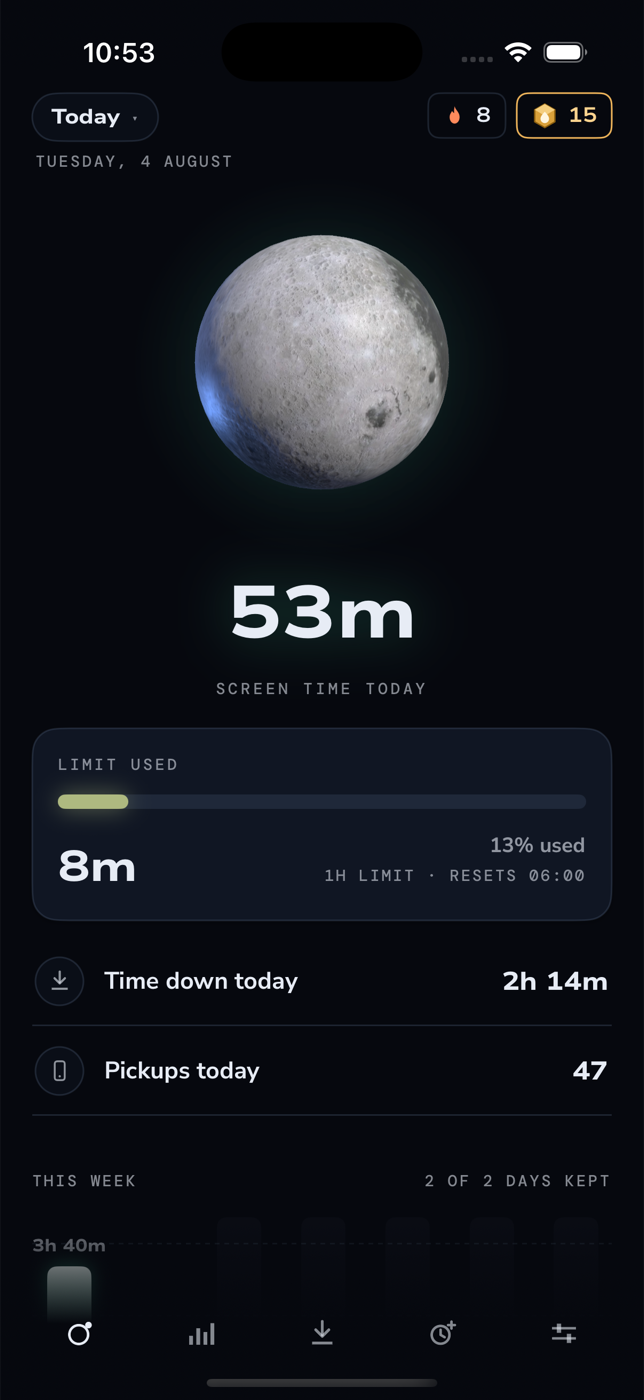
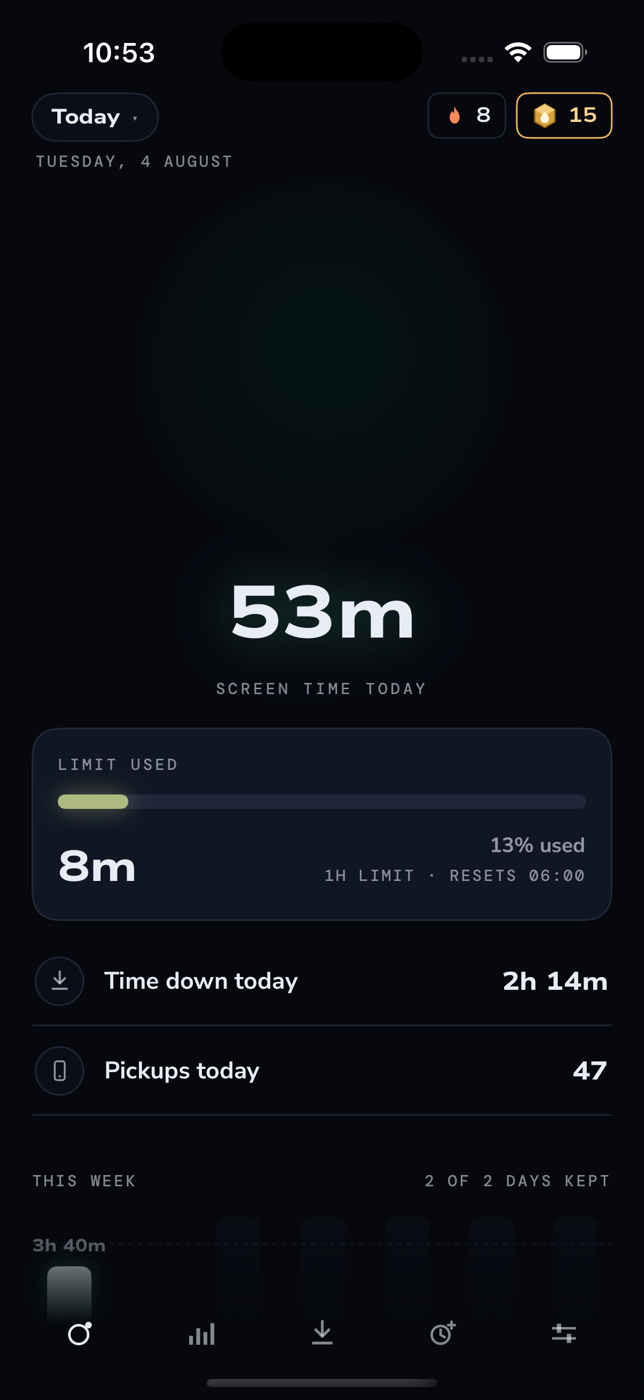
Rewrite the landing page as an advertising page, with a live spinning moon
Copy is now an argument rather than a feature list: willpower already
failed, so the thing that changes is who is in the room. Adds the Gallup
2023 figure (US teens, 4.8 hours a day on social media), the hard block
and its one human door, the 06:00 rollover and why midnight is wrong, and
the price section.

The moon on the phone actually turns. The hero screenshot has the rendered
body erased and its glow rebuilt, and a CSS sphere sits in its place: the
model's own equirectangular base colour texture, pulled out of
moons__the-moon__9916fcec.glb, laid beside its mirror so the strip tiles
with no seam, scrolled behind a circular mask. The skin is 800% wide with
a 50% tile, so one loop is exactly one tile and the wrap is invisible.
Held still under prefers-reduced-motion.

Changed region(s): [[0.2795, 0.1536, 0.7143, 0.3686]]

diff --git a/index.html b/index.html
@@ -4,11 +4,11 @@
   <meta charset="utf-8">
   <meta name="viewport" content="width=device-width, initial-scale=1">
   <title>Eclipse: social screen time</title>
-  <meta name="description" content="Set a daily limit on the apps you choose, keep a streak, and put the phone down with friends. Your screen time is measured by iOS and stays on your phone.">
+  <meta name="description" content="A hard daily limit on the apps that take your day. When it runs out, the only way past it is asking a friend. Free, for iPhone.">
   <meta name="author" content="Friedrich von Werner">
   <link rel="canonical" href="https://fvonwerner.github.io/eclipse-site/">
   <meta property="og:title" content="Eclipse: social screen time">
-  <meta property="og:description" content="Set a daily limit on the apps you choose, keep a streak, and put the phone down with friends. Your screen time is measured by iOS and stays on your phone.">
+  <meta property="og:description" content="A hard daily limit on the apps that take your day. When it runs out, the only way past it is asking a friend. Free, for iPhone.">
   <meta property="og:type" content="website">
   <meta property="og:url" content="https://fvonwerner.github.io/eclipse-site/">
   <meta property="og:image" content="https://fvonwerner.github.io/eclipse-site/eclipse-home.png">
@@ -41,9 +41,9 @@
 
     .wrap { max-width: 66rem; margin: 0 auto; padding: 0 1.5rem; position: relative; z-index: 1; }
     .corona {
-      position: absolute; top: -18rem; left: 50%; transform: translateX(-50%);
-      width: 60rem; height: 60rem; pointer-events: none; z-index: 0;
-      background: radial-gradient(circle, rgba(99, 205, 230, 0.16) 0%, rgba(127, 176, 232, 0.07) 34%, rgba(6, 8, 14, 0) 62%);
+      position: absolute; top: -20rem; left: 50%; transform: translateX(-50%);
+      width: 64rem; height: 64rem; pointer-events: none; z-index: 0;
+      background: radial-gradient(circle, rgba(99, 205, 230, 0.17) 0%, rgba(127, 176, 232, 0.07) 34%, rgba(6, 8, 14, 0) 62%);
     }
 
     .mono { font-family: var(--mono); font-weight: 500; text-transform: uppercase;
@@ -54,11 +54,12 @@
     .brand span { font-size: 1.375rem; font-weight: 700; font-variation-settings: "wdth" 125; letter-spacing: -0.01em; }
     .appicon { border-radius: 22.5%; display: block; }
 
-    .hero { display: grid; gap: 3rem; align-items: center; padding: 3rem 0 1rem; }
-    h1 { font-size: 2.75rem; line-height: 1.06; letter-spacing: -0.025em; font-weight: 800;
+    /* ---------- hero ---------- */
+    .hero { display: grid; gap: 3rem; align-items: center; padding: 2.5rem 0 1rem; }
+    h1 { font-size: 2.5rem; line-height: 1.05; letter-spacing: -0.03em; font-weight: 800;
          font-variation-settings: "wdth" 125; }
-    h1 .glow { color: var(--sagelight); text-shadow: 0 0 32px rgba(73, 215, 162, 0.45); }
-    .hero p.sub { margin-top: 1.5rem; max-width: 44ch; font-size: 1.125rem; line-height: 1.6; color: var(--ink2); }
+    h1 .glow { color: var(--sagelight); text-shadow: 0 0 34px rgba(73, 215, 162, 0.45); }
+    .hero p.sub { margin-top: 1.5rem; max-width: 46ch; font-size: 1.125rem; line-height: 1.6; color: var(--ink2); }
     .cta { margin-top: 2.25rem; display: flex; flex-wrap: wrap; align-items: center; gap: 1rem 1.25rem; }
     .button {
       display: inline-block; background: linear-gradient(180deg, var(--sagelight), var(--sage));
@@ -73,19 +74,52 @@
     .phone { width: 258px; margin: 0 auto; border-radius: 2.75rem; background: #000;
              padding: 8px; border: 1px solid var(--line);
              box-shadow: 0 40px 90px -30px rgba(0, 0, 0, 0.9), 0 0 80px -20px rgba(99, 205, 230, 0.22); }
-    .phone img { width: 100%; height: auto; border-radius: 2.3rem; display: block; }
+    .screen { position: relative; border-radius: 2.3rem; overflow: hidden; }
+    .screen img { width: 100%; height: auto; display: block; }
 
+    /* The moon on the phone is live: an equirectangular lunar map scrolled
+       behind a circular mask, so the sphere actually turns. The strip is the
+       map plus its mirror, which tiles with no seam. */
+    .moonlive {
+      position: absolute; left: 50.54%; top: 24.9%; width: 35%; aspect-ratio: 1;
+      transform: translate(-50%, -50%); border-radius: 50%; overflow: hidden;
+      box-shadow: 0 0 26px 6px rgba(73, 215, 162, 0.16),
+                  0 0 64px 18px rgba(73, 215, 162, 0.07);
+    }
+    .moonskin {
+      position: absolute; top: 0; bottom: 0; left: 0; width: 800%;
+      background: url("moon-map.jpg") repeat-x; background-size: 50% 100%;
+      animation: moonroll 76s linear infinite;
+    }
+    @keyframes moonroll { to { transform: translateX(-50%); } }
+    .moonlive::after {
+      content: ""; position: absolute; inset: 0; border-radius: 50%;
+      background:
+        radial-gradient(circle at 30% 26%, rgba(255, 255, 255, 0.16), rgba(255, 255, 255, 0) 46%),
+        radial-gradient(circle at 74% 76%, rgba(0, 0, 0, 0.72), rgba(0, 0, 0, 0) 60%);
+      box-shadow: inset -12px -8px 26px rgba(0, 0, 0, 0.7),
+                  inset 12px 4px 22px rgba(99, 205, 230, 0.20);
+    }
+
+    /* ---------- sections ---------- */
     section { border-top: 1px solid var(--line); padding: 4rem 0; }
-    h2 { font-size: 1.875rem; letter-spacing: -0.02em; font-weight: 800; font-variation-settings: "wdth" 118; }
+    h2 { font-size: 1.875rem; letter-spacing: -0.025em; font-weight: 800; font-variation-settings: "wdth" 118;
+         line-height: 1.12; }
     .lede { margin-top: 1rem; max-width: 58ch; color: var(--ink2); line-height: 1.65; }
-    .kicker { margin-top: 2rem; max-width: 58ch; line-height: 1.65; color: var(--ink); }
+    .kicker { margin-top: 1.5rem; max-width: 58ch; line-height: 1.65; color: var(--ink); }
+
+    .stat { text-align: center; padding: 4.5rem 0; }
+    .statbig { font-size: 4rem; line-height: 1; font-weight: 800; font-variation-settings: "wdth" 125;
+               letter-spacing: -0.04em; color: var(--sunset); }
+    .stat p { margin: 1.25rem auto 0; max-width: 46ch; color: var(--ink2); line-height: 1.65; }
+    .stat .src { margin-top: 1.25rem; font-size: 0.8125rem; color: var(--ink3); }
 
     ul.doors { list-style: none; margin-top: 2.5rem; }
     ul.doors li { display: grid; gap: 0.375rem; padding: 1.375rem 0; border-top: 1px solid var(--line); }
     ul.doors li:first-child { border-top: none; padding-top: 0; }
     .doorname { display: flex; align-items: center; gap: 0.75rem; font-weight: 700; font-size: 1.0625rem; }
     .dot { width: 9px; height: 9px; border-radius: 50%; flex-shrink: 0; }
-    .doordesc { color: var(--ink2); line-height: 1.65; padding-left: 21px; max-width: 52ch; }
+    .doordesc { color: var(--ink2); line-height: 1.65; padding-left: 21px; max-width: 54ch; }
 
     .split { display: grid; gap: 3rem; align-items: center; margin-top: 2.5rem; }
     .cards { display: grid; gap: 1rem; }
@@ -94,11 +128,23 @@
     .card p { margin-top: 0.5rem; color: var(--ink2); line-height: 1.6; font-size: 0.9375rem; }
     .pip { width: 9px; height: 9px; border-radius: 50%; flex-shrink: 0; }
 
+    .price { display: grid; gap: 0.75rem; margin: 2rem 0 0; max-width: 34rem; }
+    .prow { display: flex; align-items: baseline; justify-content: space-between; gap: 1rem;
+            padding: 0.875rem 0; border-bottom: 1px solid var(--line); }
+    .prow span:first-child { color: var(--ink2); }
+    .prow span:last-child { font-family: var(--mono); font-size: 0.9375rem; color: var(--ink2); white-space: nowrap; }
+    .prow.us span { color: var(--sagelight); font-weight: 700; }
+    .prow.us span:last-child { font-weight: 500; }
+
     .privacy { border-radius: 24px; background: var(--bg2); border: 1px solid var(--line);
                padding: 2rem; margin: 4rem 0 0; }
     .privacy h2 { color: var(--sagelight); }
     .privacy p { margin-top: 1.125rem; max-width: 62ch; line-height: 1.65; color: var(--ink2); }
     .privacy strong { color: var(--ink); font-weight: 600; }
+
+    .closer { text-align: center; padding: 5rem 0 1rem; border-top: 1px solid var(--line); }
+    .closer h2 { max-width: 20ch; margin: 0 auto; }
+    .closer .cta { justify-content: center; margin-top: 2rem; flex-direction: column; gap: 0.875rem; }
 
     footer { border-top: 1px solid var(--line); padding: 2.5rem 0 3rem; margin-top: 4rem;
              display: flex; flex-wrap: wrap; align-items: center; justify-content: space-between;
@@ -108,11 +154,12 @@
     footer .right p + p { margin-top: 0.3125rem; }
 
     @media (min-width: 820px) {
-      .hero { grid-template-columns: 1.05fr 1fr; padding: 4.5rem 0 2rem; }
-      h1 { font-size: 3.625rem; }
+      .hero { grid-template-columns: 1.08fr 1fr; padding: 4rem 0 2rem; }
+      h1 { font-size: 3.5rem; }
       .phone { width: 292px; }
       section { padding: 5.5rem 0; }
       h2 { font-size: 2.25rem; }
+      .statbig { font-size: 6rem; }
       ul.doors li { grid-template-columns: 300px 1fr; gap: 1.5rem; align-items: baseline; }
       .doordesc { padding-left: 0; }
       .split { grid-template-columns: 1fr 300px; gap: 4rem; }
@@ -121,6 +168,7 @@
     @media (prefers-reduced-motion: reduce) {
       html { scroll-behavior: auto; }
       .button { transition: none; }
+      .moonskin { animation: none; }
     }
   </style>
 </head>
@@ -133,83 +181,122 @@
         <img class="appicon" src="eclipse-icon.png" alt="" width="30" height="30">
         <span>Eclipse</span>
       </div>
-      <span class="mono">For iPhone</span>
+      <span class="mono">Free · For iPhone</span>
     </header>
 
     <section class="hero" style="border-top: none">
       <div>
-        <h1>Screen time you keep, <span class="glow">together</span>.</h1>
-        <p class="sub">Eclipse puts a daily limit on the apps you choose. Stay inside it and grow a streak. Put the phone down on purpose and a few friends are doing it with you.</p>
+        <h1>The way past your limit is not a button. It is a <span class="glow">person</span>.</h1>
+        <p class="sub">Eclipse puts a hard daily limit on the apps that eat your day. When it runs out, it runs out. There is no "15 more minutes", no talking yourself into it at 1am. If you genuinely need more time, you ask a friend, and they decide.</p>
         <div class="cta">
-          <a class="button" href="https://testflight.apple.com/join/ADW7nST8">Join the TestFlight beta</a>
-          <p class="ctanote">Free, iPhone, iOS 26 or newer.<br>The beta is capped at 100 people.</p>
+          <a class="button" href="https://testflight.apple.com/join/ADW7nST8">Get Eclipse free</a>
+          <p class="ctanote">Free, iPhone, iOS 26 or newer.<br>No subscription and no trial.</p>
         </div>
       </div>
       <div class="phone">
-        <img src="eclipse-home.png" width="644" height="1400" loading="eager"
-             alt="Eclipse's home screen in dark mode: the Moon floating above an 8 day streak, about 53 minutes of screen time today, 8 minutes of a one hour limit used, time down today and pickups today, and this week's bars">
+        <div class="screen">
+          <img src="eclipse-home.png" width="644" height="1400" loading="eager"
+               alt="Eclipse's home screen in dark mode: the Moon floating above an 8 day streak, about 53 minutes of screen time today, 8 minutes of a one hour limit used, time down today and pickups today, and this week's bars">
+          <div class="moonlive" aria-hidden="true"><div class="moonskin"></div></div>
+        </div>
       </div>
     </section>
 
+    <section class="stat">
+      <div class="statbig">4.8 hours</div>
+      <p>That is how long the average American teenager spends on social media every day. Not on their phone. On social media alone. Over a year it adds up to seventy three days, awake, gone.</p>
+      <p class="src">Gallup, Familial &amp; Adolescent Health Survey, 2023</p>
+    </section>
+
     <section>
-      <p class="mono">The wall</p>
-      <h2>When time is up, it is up.</h2>
-      <p class="lede">Once today's budget is spent, your tracked apps close behind a quiet screen. There are two ways forward from it, and neither one is a &ldquo;keep scrolling anyway&rdquo; button.</p>
+      <p class="mono">Why a friend</p>
+      <h2>Willpower is the thing that already failed.</h2>
+      <p class="lede">Every screen time app asks the same person who opened Instagram to also be the person who stops. That is you against yourself at your worst moment, and you have been losing that argument for years. It is not a character flaw. These apps are built by thousands of people whose whole job is to keep you scrolling.</p>
+      <p class="kicker">So Eclipse changes who is in the room. Your limit, your streak and your kept days are visible to a handful of friends you chose. Not a feed, not followers, not strangers: three or four people who will notice. Breaking a promise is easy when nobody is watching and surprisingly hard when someone is.</p>
+      <p class="kicker">This is the oldest trick in behaviour change, and it is the one that works. It is why people run with a friend instead of alone, and why the gym buddy who is waiting outside beats every alarm you have ever set.</p>
+    </section>
+
+    <section>
+      <p class="mono">When time is up</p>
+      <h2>A wall, and one human door.</h2>
+      <p class="lede">Most apps hand you an escape hatch and call it flexibility: a snooze, an "ignore limit", a setting you can raise in four taps at exactly the moment you should not. Eclipse closes those. When today's budget is spent, your tracked apps close, and there is no button anywhere that says keep going.</p>
       <ul class="doors">
         <li>
           <div class="doorname"><span class="dot" style="background: var(--sage)"></span>Close it</div>
-          <p class="doordesc">Put the phone down and the day counts as kept. Your streak grows by one. Reaching your limit is a success, so the whole app stays green when you land on it.</p>
+          <p class="doordesc">Put the phone down and the day counts as kept. Your streak grows by one. Reaching your limit is a success, not a failure, so the whole app stays green when you land on it.</p>
         </li>
         <li>
-          <div class="doorname"><span class="dot" style="background: var(--honey)"></span>Take two minutes</div>
-          <p class="doordesc">For the message that genuinely cannot wait: two minutes, granted the moment you tap, in the app you tapped from. Three a day, then a cooldown. Your streak survives all three.</p>
+          <div class="doorname"><span class="dot" style="background: var(--honey)"></span>Two minutes, right now</div>
+          <p class="doordesc">For the message that genuinely cannot wait. Two minutes, granted the instant you tap, in the app you tapped from. Three a day and then a cooldown. Your streak survives all three.</p>
+        </li>
+        <li>
+          <div class="doorname"><span class="dot" style="background: var(--frost)"></span>Ask a friend</div>
+          <p class="doordesc">The real emergency door. Ask your circle for fifteen minutes, an hour, or the rest of the day, and say why. The first yes opens it. You do not have to raise your limit, and you do not have to delete Eclipse to get your evening back. A day a friend helped is its own calm blue on your calendar: never a broken streak, and never a day you can pretend you earned.</p>
         </li>
       </ul>
-      <p class="kicker">And if you need a real exception, one friend can open it for you. You name a single anchor, and only their gift of time unlocks you. Days an anchor helped are their own calm blue on your calendar: never a kept day you did not earn, never a broken streak either.</p>
+      <p class="kicker">Raising your limit is always possible, because this is your phone and we are not going to pretend otherwise. It just costs your streak, and Eclipse says so before you confirm. Tightening is free. Loosening is not.</p>
+    </section>
+
+    <section>
+      <p class="mono">Six in the morning</p>
+      <h2>Your day resets at 6am, not midnight.</h2>
+      <p class="lede">A budget that refills at midnight refills at the exact moment it can do the most damage: lights off, in bed, nothing left to do tomorrow that a fresh hour of scrolling cannot ruin. Every app does this, and every app is wrong about it.</p>
+      <p class="kicker">Eclipse rolls the day over at six in the morning. If you hit your limit at 11pm, midnight is not a reward, and the new day arrives when you are awake and it can actually do you some good. Your sleep is most of the reason to do any of this in the first place.</p>
     </section>
 
     <section>
       <p class="mono">Phone down</p>
-      <h2>The good version of a competition.</h2>
+      <h2>The good kind of competition.</h2>
       <div class="split">
         <div class="cards">
           <div class="card">
-            <h3><span class="pip" style="background: var(--sage)"></span>Lock the whole phone, on purpose</h3>
-            <p>Start a session and everything closes, not just the apps you track. Invite whoever is already down and you finish together.</p>
+            <h3><span class="pip" style="background: var(--sage)"></span>Put the phone down on purpose</h3>
+            <p>Start a session and the whole phone closes, not just the apps you track. Invite whoever is already down and you finish together.</p>
           </div>
           <div class="card">
-            <h3><span class="pip" style="background: var(--dusk)"></span>A weekly board that counts the right thing</h3>
-            <p>It ranks the minutes you chose to be unreachable, never the hours you spent scrolling. Nobody wins by having a worse week.</p>
+            <h3><span class="pip" style="background: var(--dusk)"></span>A board that counts the right thing</h3>
+            <p>It ranks the minutes you chose to be unreachable, never the hours you lost. Nobody wins by having a worse week.</p>
           </div>
           <div class="card">
-            <h3><span class="pip" style="background: var(--honey)"></span>Finish and get paid in fuel</h3>
-            <p>A finished session pays fuel, and friends still down at the end pay you a bonus. Fuel buys 3D bodies to keep on your home screen: asteroids up to galaxies, 33 of them. It buys nothing else. Money and fuel can never buy time through the wall.</p>
-          </div>
-          <div class="card">
-            <h3><span class="pip" style="background: var(--sunset)"></span>Stopping early pays nothing</h3>
-            <p>The session tells you so before you confirm. The minutes still count on the board, because you were still off your phone for them.</p>
+            <h3><span class="pip" style="background: var(--honey)"></span>Something to show for it</h3>
+            <p>Finishing pays fuel, and friends still down at the end pay you a bonus. Fuel buys 3D bodies for your home screen, asteroids up to galaxies. It buys nothing else. Neither fuel nor money can ever buy time through your limit.</p>
           </div>
         </div>
         <div class="phone">
-          <img src="eclipse-down.png" width="644" height="1400" loading="lazy"
-               alt="Eclipse's phone down screen: this week's ranking of friends by phone down minutes, and a Start a session button">
+          <div class="screen">
+            <img src="eclipse-down.png" width="644" height="1400" loading="lazy"
+                 alt="Eclipse's phone down screen: this week's ranking of friends by phone down minutes, and a Start a session button">
+          </div>
         </div>
       </div>
     </section>
 
     <section>
-      <p class="mono">Your circle</p>
-      <h2>Small, invited, and honest.</h2>
-      <p class="lede">Every person claims a short tag. You add a friend by typing theirs, they approve it, and that is the entire join flow. No feed, no follower count, no strangers.</p>
-      <p class="kicker">What a friend sees is the promise you made and whether you kept it: your daily limit, your streak, how recent days ended, and the minutes you chose to put the phone down. What they never see is your screen time, the apps you picked, or anyone else in your circle.</p>
-      <p class="kicker">When you really are stuck, you can ask the circle for time on the wall of shame, out loud, to the people you picked. The first yes ends it. It is meant to be slightly embarrassing, which is most of why it works.</p>
+      <p class="mono">The price</p>
+      <h2>All of it, free.</h2>
+      <p class="lede">Screen time apps have quietly become expensive. The popular ones run between thirty and a hundred dollars a year, and one of them asks $399 for a lifetime licence. Their free tiers are usually built to be just annoying enough that you pay.</p>
+      <div class="price">
+        <div class="prow"><span>A well known focus app</span><span>$99.99 / year</span></div>
+        <div class="prow"><span>Another, with a lifetime option</span><span>$44.99 / year</span></div>
+        <div class="prow"><span>A third, the cheap one</span><span>$29.99 / year</span></div>
+        <div class="prow us"><span>Eclipse, everything on this page</span><span>$0</span></div>
+      </div>
+      <p class="kicker">There is no paid tier, no locked feature and no trial that expires. The limit, the friend circle, the emergency door, the sessions, all of it is simply the app.</p>
+      <p class="kicker">The reason is not generosity, it is arithmetic. The people this problem hurts most are the ones least able to pay to fix it. A fifteen year old losing five hours a day is not going to talk a parent into a hundred dollar subscription for an app whose entire promise is to make their phone less fun. Charging them would mean building something that only reaches the people who need it least.</p>
     </section>
 
     <div class="privacy">
       <h2>Private by construction.</h2>
       <p>Your screen time is measured by iOS itself, on your phone, and it does not leave. Eclipse has no server and no analytics SDK. Even inside the app, Apple's frameworks hand it coarse threshold events rather than a record of what you looked at.</p>
-      <p>The circle is optional, and it costs nothing to skip: a fresh install creates no account and no cloud data at all until you claim a tag or add someone. When you do, <strong>each friendship gets its own private Apple CloudKit share</strong>, so a friend can only ever read the one made for the two of you.</p>
-      <p>And the day turns over at six in the morning, not at midnight, because a budget that refills at 00:00 refills exactly when you least need it to.</p>
+      <p>Your friends see the promise you made and whether you kept it: your limit, your streak, which days you kept. <strong>They never see your screen time, the apps you picked, or anyone else in your circle.</strong> The circle is optional too, and skipping it costs nothing: a fresh install creates no account and no cloud data at all until you claim a tag or add someone.</p>
+    </div>
+
+    <div class="closer">
+      <h2>Start with one friend and a number you can live with.</h2>
+      <div class="cta">
+        <a class="button" href="https://testflight.apple.com/join/ADW7nST8">Get Eclipse free</a>
+        <p class="ctanote">iPhone, iOS 26 or newer. The beta is capped at 100 people.</p>
+      </div>
     </div>
 
     <footer>
